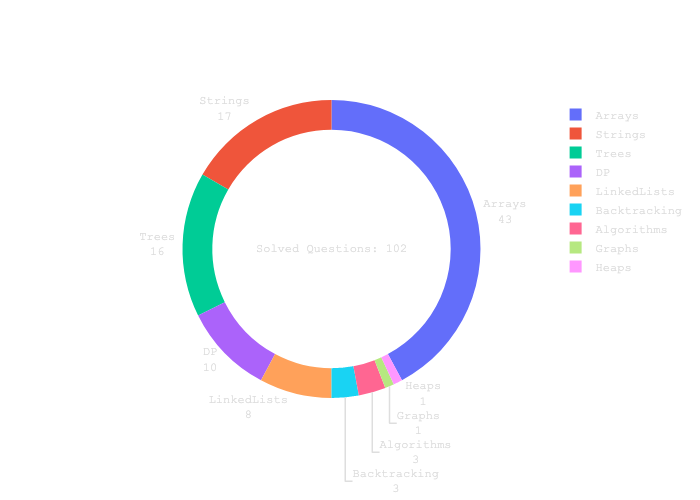
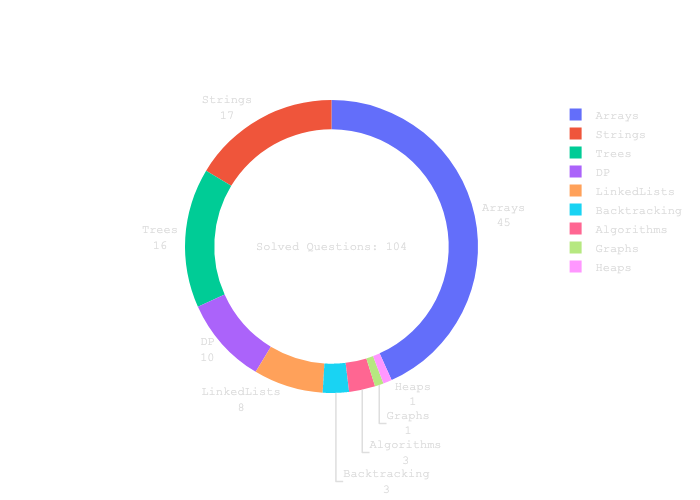
movingAverageFromStream

diff --git a/Arrays/gasStation.py b/Arrays/gasStation.py
@@ -1,0 +1,19 @@
+from typing import List
+
+
+def canCompleteCircuit(gas: List[int], cost: List[int]) -> int:
+    N = len(gas)
+    if sum(gas) < sum(cost):
+        return -1
+    gas_left = start = 0
+
+    for i in range(N):
+        gas_left += gas[i] - cost[i]
+        if gas_left < 0:
+            start = i + 1
+            gas_left = 0
+    return start
+
+
+print(canCompleteCircuit([1, 2, 3, 4, 5], [3, 4, 5, 1, 2]))
+print(canCompleteCircuit([2, 3, 4], [3, 4, 3]))

diff --git a/Arrays/movingAverageFromStream.py b/Arrays/movingAverageFromStream.py
@@ -1,0 +1,18 @@
+from collections import deque
+
+
+class MovingAverage:
+
+    def __init__(self, size: int) -> None:
+        self.q = deque()
+        self.size = size
+        self.sum = 0
+
+    def next(self, val: int) -> float:
+        self.sum += val
+        if len(self.q) == self.size:
+            pop = self.q.pop()
+            self.sum -= pop
+        self.q.append(val)
+
+        return self.sum / len(self.q)
